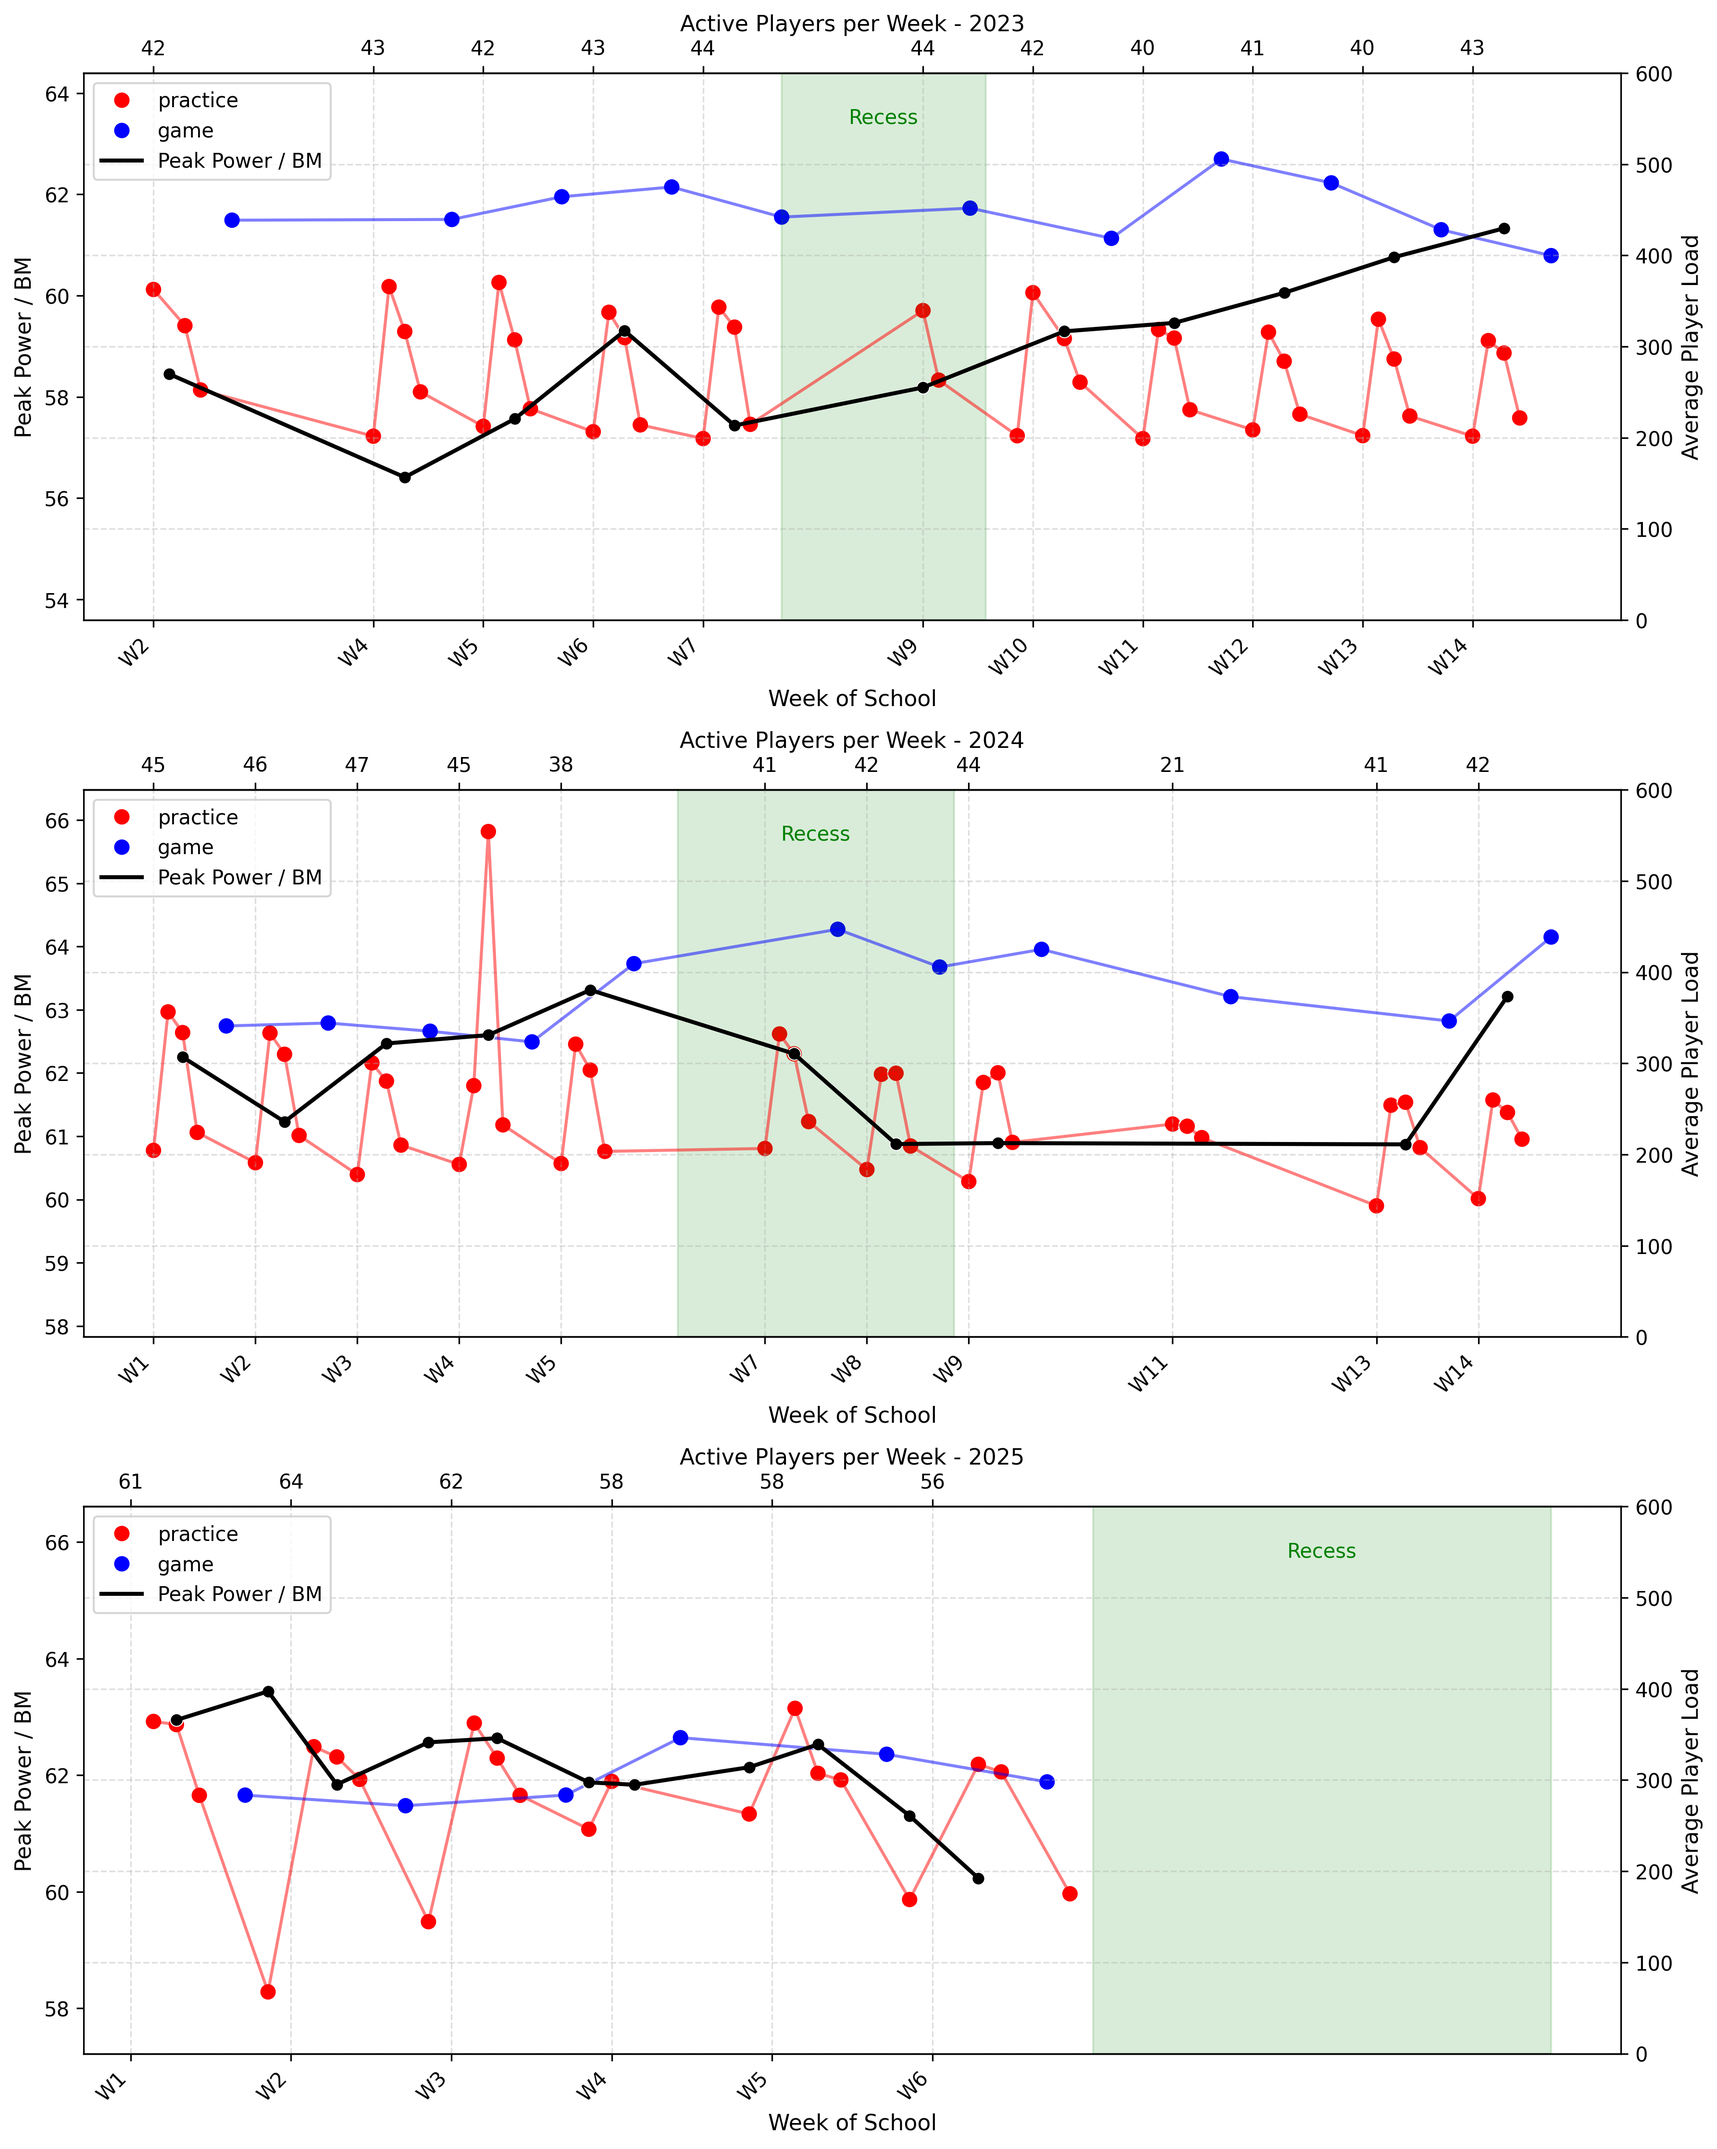
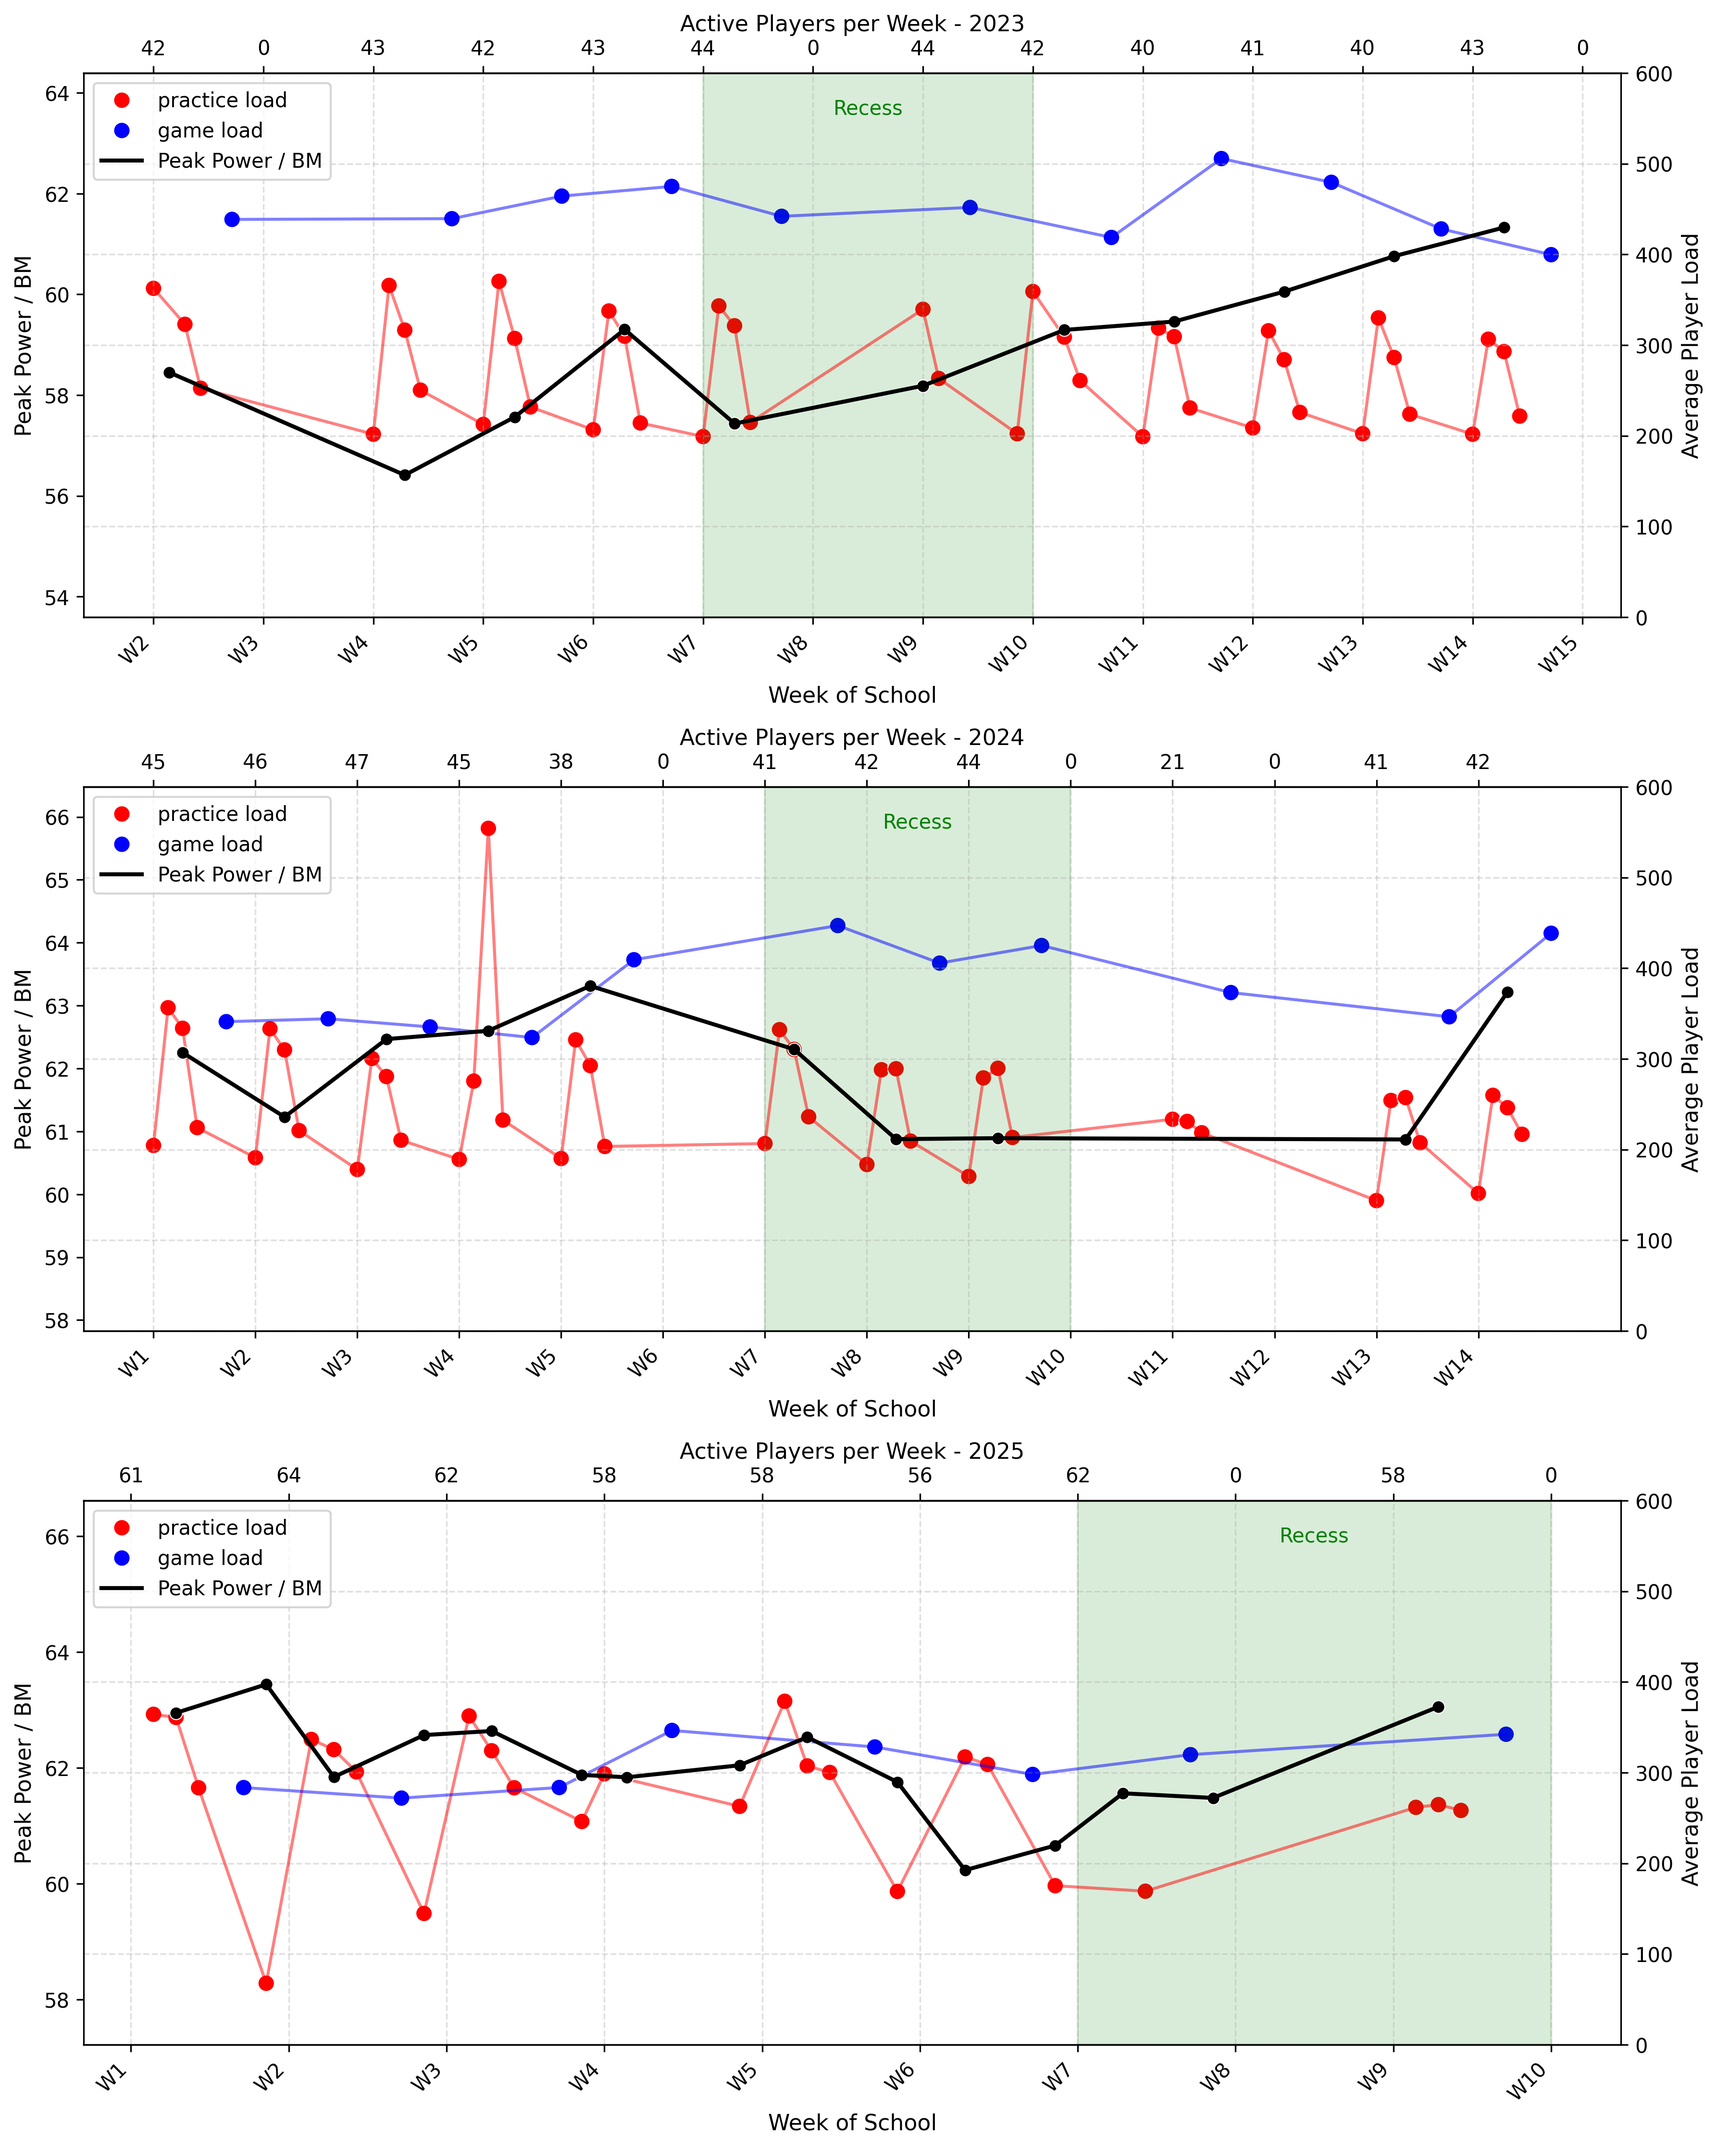
done

diff --git a/football/script/plot_compute_top10_contributors.py b/football/script/plot_compute_top10_contributors.py
@@ -3,8 +3,8 @@ import matplotlib.pyplot as plt
 import seaborn as sns
 # import numpy as np
 
-catapult_data = pd.read_csv("../clean_data/catapult_data_practice_game_clean.csv")
-cmj_data = pd.read_csv("../clean_data/cmj_wstatus.csv")
+catapult_data = pd.read_csv("../clean_data/catapult_data_practice_game_clean_top10.csv")
+cmj_data = pd.read_csv("../clean_data/cmj_wstatus_top10.csv")
 
 weeks_cmj = cmj_data.loc[cmj_data['week_of_school_uid'].notna()].copy()
 
@@ -53,7 +53,7 @@ result = (
 result['avg_player_load'] = result['avg_player_load'].round(1)
 
 # print(result.head())
-output_path = "../clean_data/avgload.csv"
+output_path = "../clean_data/avgload_top10.csv"
 result.to_csv(output_path, index=False)
 print(f"Saved merged file to: {output_path}")
 
@@ -86,7 +86,7 @@ cmj_result = (
 )
 
 # print(result.head())
-output_path = "../clean_data/avgpeakpower.csv"
+output_path = "../clean_data/avgpeakpower_top10.csv"
 cmj_result.to_csv(output_path, index=False)
 print(f"Saved merged file to: {output_path}")
 
@@ -103,15 +103,6 @@ result = result.sort_values('date')
 
 # Extract year from UID (e.g. "2024-W7" -> 2024)
 result['school_year'] = result['week_of_school_uid'].str.extract(r'(\d{4})').astype(int)
-
-# Build table for labels per week
-# week_labels = (
-#     result.groupby(['school_year', 'week_of_school_uid', 'week_start'], as_index=False)
-#           .agg(
-#               week_of_school=('week_of_school', 'first'),
-#               active_player=('active_player', 'first')
-#           )
-# )
 
 df_weeks['week_start'] = pd.to_datetime(df_weeks['week_start'], errors='coerce')
 
@@ -141,6 +132,9 @@ week_labels = (
 # (Optional) make active_player integer
 week_labels['active_player'] = week_labels['active_player'].astype(int)
 
+result = result[result['week_of_school'].str.match(r'^W\d+', na=False)]
+week_labels = week_labels[week_labels['week_of_school'].str.match(r'^W\d+', na=False)]
+
 # Color palette
 palette = {'practice': 'red', 'game': 'blue'}
 
@@ -156,9 +150,19 @@ if len(years) == 1:
 # --- Ensure cmj_result has real datetimes ---
 cmj_result['date'] = pd.to_datetime(cmj_result['date'], errors='coerce')
 cmj_result = cmj_result.dropna(subset=['date'])  # drop rows that failed to parse
+cmj_result = cmj_result[cmj_result['week_of_school'].astype(str).str.match(r'^W\d+', na=False)]
 
 # (Optional sanity check)
 print("cmj_result['date'] dtype:", cmj_result['date'].dtype)
+
+
+m = result['avg_player_load'].dropna()
+meter_lo = max(0, m.min() - 0.05*(m.max()-m.min()))
+meter_hi = m.max() + 0.05*(m.max()-m.min())
+
+pp = cmj_result['avg_peak_power_bm'].dropna()
+pp_lo = pp.min()*0.95
+pp_hi = pp.max()*1.05
 
 # --- Plot for each year ---
 for ax, year in zip(axes, years):
@@ -187,10 +191,10 @@ for ax, year in zip(axes, years):
             ax.axvspan(start, end, color='green', alpha=0.15)
             # optional label
             mid = start + (end - start) / 2
-            ax.text(mid, 550, 'Recess', color='green', ha='center', va='bottom', fontsize=10)
+            ax.text(mid, 650, 'Recess', color='green', ha='center', va='bottom', fontsize=10)
 
     # Set consistent y-axis range
-    ax.set_ylim(0, 600)
+    # ax.set_ylim(50, 700)
 
     # Bottom x-axis: week labels
     ax.set_xticks(labels_year['week_start'])
@@ -239,12 +243,13 @@ for ax, year in zip(axes, years):
         x='date', y='avg_peak_power_bm',
         color='black', s=40, ax=ax_left
     )
+    # ax_left.set_ylim(52, 70)
 
-    # consistent y-range
-    if not cmj_year['avg_peak_power_bm'].isna().all():
-        pp_min = cmj_year['avg_peak_power_bm'].min()
-        pp_max = cmj_year['avg_peak_power_bm'].max()
-        ax_left.set_ylim(pp_min * 0.95, pp_max * 1.05)
+    # RIGHT axis = meterage scale identical across subplots
+    ax.set_ylim(meter_lo, meter_hi)
+
+    # LEFT axis = PP/BM scale identical across subplots
+    ax_left.set_ylim(pp_lo, pp_hi)
 
     # --- Legend handling ---
     # Remove the right legend (from Peak Power / BM axis)
@@ -267,7 +272,7 @@ for ax, year in zip(axes, years):
 plt.tight_layout()
 
 # --- Export ---
-output_path = "avg_player_load_by_year.png"
+output_path = "avg_player_load_by_year_top10.png"
 plt.savefig(output_path, dpi=300, bbox_inches='tight')
 # plt.show()
 

diff --git a/football/script/clean_catapult_data_top10.py b/football/script/clean_catapult_data_top10.py
@@ -3,6 +3,7 @@ import numpy as np
 
 # Example: your DataFrame
 raw_catapult_data = pd.read_csv("../raw_data/tblCatapultFOOTBALLStatsByActivity.csv")
+top10_per_year = pd.read_csv("../clean_data/top_contributors.csv")
 
 
 # List of columns to keep
@@ -109,37 +110,58 @@ print(f"Saved merged file to: {output_path}")
 LOAD_THRESH = 100  # cutoff for being an active game contributor
 
 # 1) Row-level game status: only games count; practices are False
-grid_week_df['game_status'] = (grid_week_df['activity'].eq('game')) & (grid_week_df['total_player_load'] > LOAD_THRESH)
+# grid_week_df['game_status'] = (grid_week_df['activity'].eq('game')) & (grid_week_df['total_player_load'] > LOAD_THRESH)
 
-grid_week_df['weekly_status'] = (
-    grid_week_df.groupby(['athlete_name', 'week_of_school_uid'])['game_status']
-      .transform('any')
-).fillna(False)
+# grid_week_df['weekly_status'] = (
+#     grid_week_df.groupby(['athlete_name', 'week_of_school_uid'])['game_status']
+#       .transform('any')
+# ).fillna(False)
 
-# print(grid_week_df.head(200)) 
-output_path = "../clean_data/catapult_data_wstatus.csv"
-grid_week_df.to_csv(output_path, index=False)
-print(f"Saved merged file to: {output_path}")
+# # print(grid_week_df.head(200)) 
+# output_path = "../clean_data/catapult_data_wstatus.csv"
+# grid_week_df.to_csv(output_path, index=False)
+# print(f"Saved merged file to: {output_path}")
 
 
-# remove practice rows with low athlete participation
-practice_counts = (
-    grid_week_df.loc[grid_week_df['activity'] == 'practice']
-      .groupby('date')['catapult_athlete_id'].nunique()
-      .rename('num_athletes')
-      .reset_index()
+# # remove practice rows with low athlete participation
+# practice_counts = (
+#     grid_week_df.loc[grid_week_df['activity'] == 'practice']
+#       .groupby('date')['catapult_athlete_id'].nunique()
+#       .rename('num_athletes')
+#       .reset_index()
+# )
+
+# # Filter out low-participation days
+# valid_practices = practice_counts.loc[practice_counts['num_athletes'] >= 35, 'date']
+# # keep only games and valid practices
+# df_clean = grid_week_df[
+#     (grid_week_df['activity'] == 'game') |
+#     ((grid_week_df['activity'] == 'practice') & (grid_week_df['date'].isin(valid_practices)))
+# ]
+
+grid_week_df = grid_week_df.copy()
+grid_week_df["date"] = pd.to_datetime(grid_week_df["date"], errors="coerce")
+grid_week_df["year"] = grid_week_df["date"].dt.year
+
+# Identify athlete/name columns
+grid_name_col = "athlete_name" if "athlete_name" in grid_week_df.columns else "name"
+top_name_col  = "athlete_name" if "athlete_name" in top10_per_year.columns else "name"
+
+# --- Build set of (year, athlete) for top-10 cohort ---
+top10_pairs = (
+    top10_per_year[["year", top_name_col]]
+    .dropna()
+    .drop_duplicates()
+    .apply(tuple, axis=1)
 )
+top10_pairs = set(top10_pairs.tolist())
 
-# Filter out low-participation days
-valid_practices = practice_counts.loc[practice_counts['num_athletes'] >= 35, 'date']
-# keep only games and valid practices
-df_clean = grid_week_df[
-    (grid_week_df['activity'] == 'game') |
-    ((grid_week_df['activity'] == 'practice') & (grid_week_df['date'].isin(valid_practices)))
-]
+grid_week_df["weekly_status"] = pd.Series(
+    list(zip(grid_week_df["year"], grid_week_df[grid_name_col]))
+).isin(top10_pairs)
 
 # print(df_clean.head(200)) 
 
-output_path = "../clean_data/catapult_data_practice_game_clean.csv"
-df_clean.to_csv(output_path, index=False)
+output_path = "../clean_data/catapult_data_practice_game_clean_top10.csv"
+grid_week_df.to_csv(output_path, index=False)
 print(f"Saved merged file to: {output_path}")

diff --git a/football/script/find_top_contributors.py b/football/script/find_top_contributors.py
@@ -1,0 +1,40 @@
+import pandas as pd
+import matplotlib.pyplot as plt
+import seaborn as sns
+# import numpy as np
+
+catapult_data = pd.read_csv("../clean_data/catapult_data_practice_game_clean.csv")
+
+# --- Make sure date column is datetime ---
+catapult_data["date"] = pd.to_datetime(catapult_data["date"], errors="coerce")
+
+# --- Extract year ---
+catapult_data["year"] = catapult_data["date"].dt.year
+
+# --- Filter only game activities ---
+games = catapult_data[catapult_data["activity"].str.lower() == "game"].copy()
+
+# --- Compute per-athlete yearly totals ---
+yearly_load = (
+    games.groupby(["year", "athlete_name"], as_index=False)
+         .agg(total_load_sum=("total_player_load", "sum"),
+              game_count=("total_player_load", "count"))
+)
+
+# --- Compute average load per game ---
+yearly_load["avg_load_per_game"] = yearly_load["total_load_sum"] / yearly_load["game_count"]
+
+# --- Get top 10 athletes per year ---
+top10_per_year = (
+    yearly_load.sort_values(["year", "avg_load_per_game"], ascending=[True, False])
+                .groupby("year")
+                .head(10)
+                .reset_index(drop=True)
+)
+
+# --- Clean final table ---
+final_table = top10_per_year[["year", "athlete_name", "avg_load_per_game"]]
+
+output_path = "../clean_data/top_contributors.csv"
+final_table.to_csv(output_path, index=False)
+print(f"Saved merged file to: {output_path}")

diff --git a/football/script/prepare_cmj_top10.py b/football/script/prepare_cmj_top10.py
@@ -5,7 +5,7 @@ import numpy as np
 
 
 cmj_data = pd.read_csv("../clean_data/wide_cmj.csv")
-catapult_data = pd.read_csv("../clean_data/catapult_data_practice_game_clean.csv")
+catapult_data = pd.read_csv("../clean_data/catapult_data_practice_game_clean_top10.csv")
 
 ANCHOR = pd.Timestamp('2023-06-05')  # Monday
 today = pd.Timestamp('today').normalize()
@@ -111,12 +111,12 @@ active_counts = (
 )
 
 # find which dates have at least 25 True values
-valid_dates = active_counts.loc[active_counts['active_count'] >= 20, 'date']
+valid_dates = active_counts.loc[active_counts['active_count'] >= 0, 'date']
 
 # keep only those dates in your dataframe
 filtered_df = merged[merged['date'].isin(valid_dates)].copy()
 
-output_path = "../clean_data/cmj_wstatus.csv"
+output_path = "../clean_data/cmj_wstatus_top10.csv"
 filtered_df.to_csv(output_path, index=False)
 print(f"Saved merged file to: {output_path}")
 

diff --git a/football/script/wide_cmj.py b/football/script/wide_cmj.py
@@ -5,6 +5,8 @@ import numpy as np
 
 
 raw_cmj_data = pd.read_csv("../raw_data/MASTER_all_CMJmetrics.csv")
+# raw_cmj_data = raw_cmj_data.sort_values('recordedUTC', ascending=False)
+# print(raw_cmj_data['recordedUTC'].tail(5))
 # ensure it's a datetime
 raw_cmj_data['recordedUTC'] = pd.to_datetime(raw_cmj_data['recordedUTC'], utc=True, errors='coerce')
 
@@ -54,6 +56,9 @@ else:
 final_cols = ['date', 'athleteId', 'name', 'sex', 'dateOfBirth',
               'valueName', 'typeName', 'testType', 'testId', 'peak_power_bm']
 wide = wide.reindex(columns=final_cols)
+
+wide['date'] = pd.to_datetime(wide['date'], errors='coerce')
+result = wide.sort_values('date').reset_index(drop=True)
 
 output_path = "../clean_data/wide_cmj.csv"
 wide.to_csv(output_path, index=False)

diff --git a/football/script/player_distribution.py b/football/script/player_distribution.py
@@ -36,7 +36,7 @@ plt.legend(title="Game Date")
 plt.grid(True, alpha=0.3)
 x_min, x_max = plt.xlim()                 # get axis limits
 plt.xticks(np.arange(0, x_max + 20, 20))
-# plt.show()
+plt.show()
 
 
 catapult_data = pd.read_csv("../clean_data/catapult_data_wstatus.csv")
